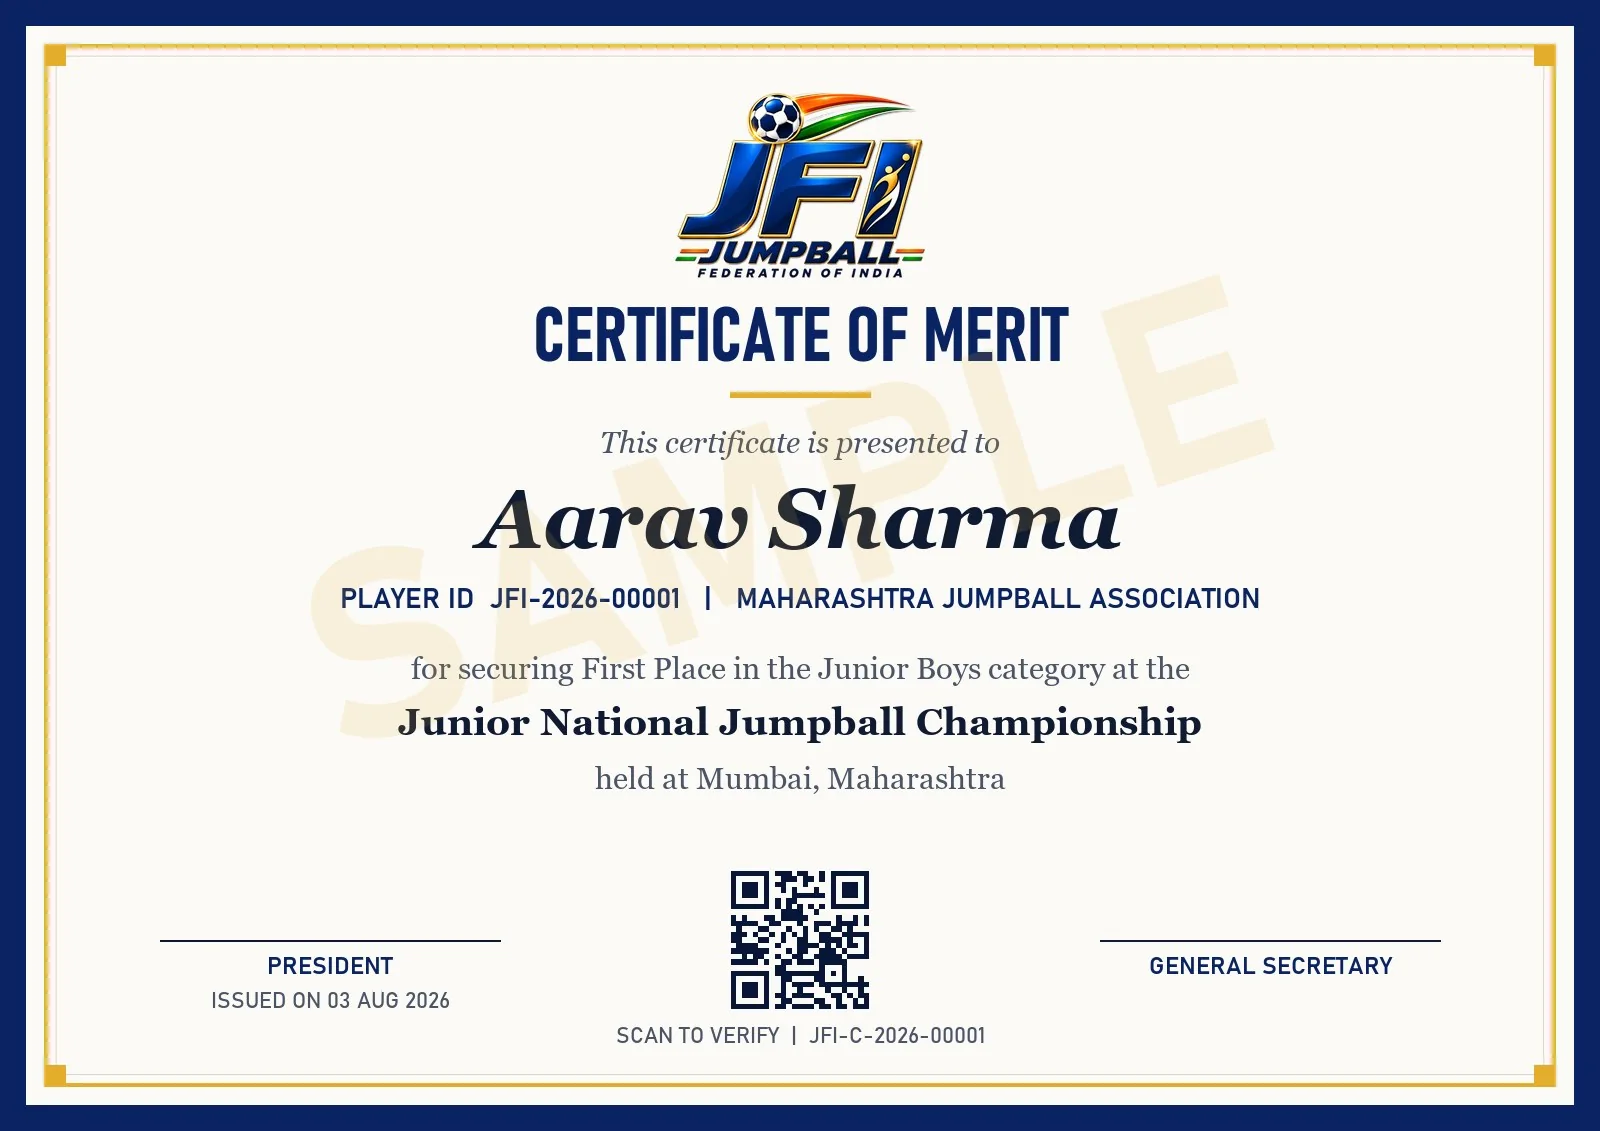
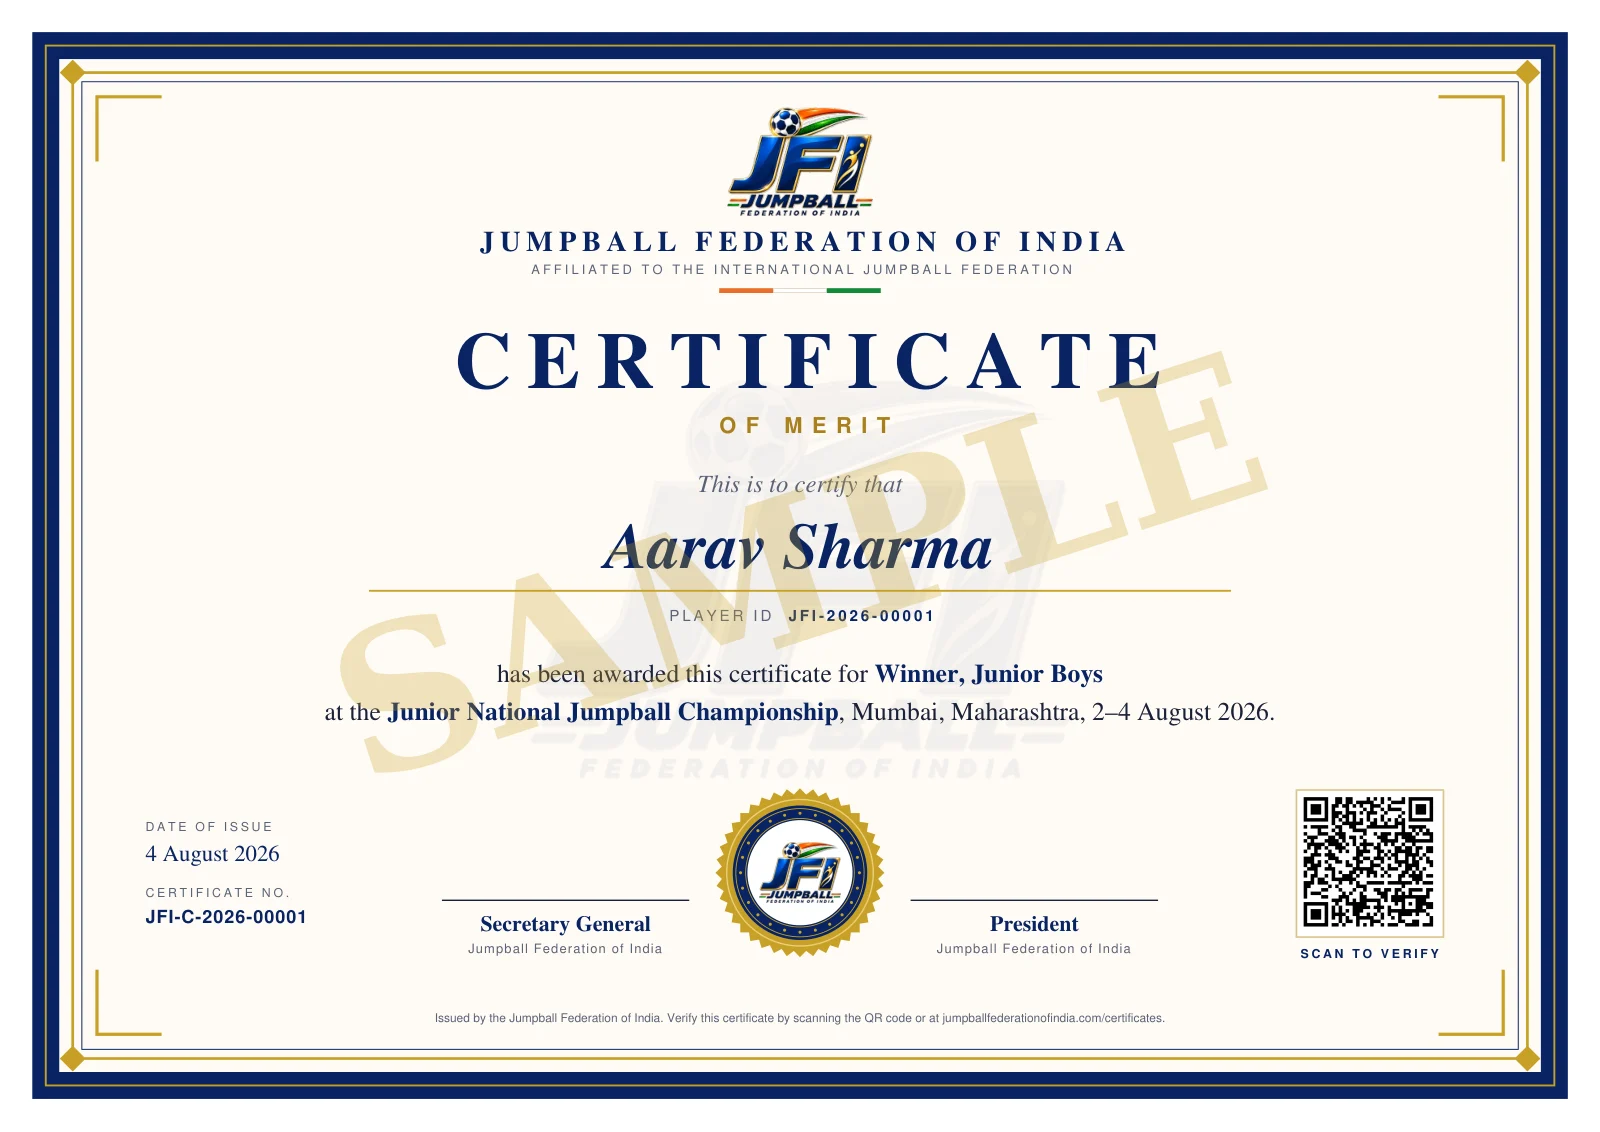
Improve the Find Certificates page
- Lookup redirects land on the results (#lookup-results) or, for a
  not-found or validation error, on the form (#find-certificate)
- Result cards: award icon, certificate count, "Search again", and a
  Verify link next to Download PDF so players can share proof
- Submit button shows "Searching..." and is disabled while the search
  runs (data-busy-label helper in jfi-forms.js, reset on Back)
- Sample image re-rendered from the real certificate template and
  stamped SAMPLE; Certificate::renderPdf() split from generatePdf()
- Equal-width result buttons and an unbroken certificate count on phones

diff --git a/public/assets/js/jfi-forms.js b/public/assets/js/jfi-forms.js
@@ -11,3 +11,30 @@ document.querySelectorAll('[data-password-toggle]').forEach((button) => {
         button.querySelector('i').className = isHidden ? 'fa-regular fa-eye-slash' : 'fa-regular fa-eye';
     });
 });
+
+/**
+ * Busy state for forms: <button type="submit" data-busy-label="Searching...">.
+ * Stops double submits and tells the visitor the request is on its way.
+ */
+document.querySelectorAll('form').forEach((form) => {
+    const button = form.querySelector('[type="submit"][data-busy-label]');
+
+    if (!button) {
+        return;
+    }
+
+    const label = button.innerHTML;
+
+    form.addEventListener('submit', () => {
+        button.disabled = true;
+        button.setAttribute('aria-busy', 'true');
+        button.textContent = button.dataset.busyLabel;
+    });
+
+    // Pages restored with the Back button keep their old state; reset it.
+    window.addEventListener('pageshow', () => {
+        button.disabled = false;
+        button.removeAttribute('aria-busy');
+        button.innerHTML = label;
+    });
+});

diff --git a/public/assets/css/jfi-components.css b/public/assets/css/jfi-components.css
@@ -1500,7 +1500,29 @@ input[type="file"].form-control-jfi::file-selector-button{
 }
 
 .lookup-results-head{
+    display: flex;
+    flex-wrap: wrap;
+    align-items: flex-end;
+    justify-content: space-between;
+    gap: 12px 24px;
     margin-bottom: 20px;
+}
+
+/* Lookup redirects to these anchors; keep a little space above them */
+#lookup-results,
+#find-certificate{
+    scroll-margin-top: 24px;
+}
+
+.certificate-item .file-icon{
+    background-color: var(--jfi-navy);
+    color: var(--jfi-gold);
+    font-size: 20px;
+}
+
+.jfi-btn[aria-busy="true"]{
+    opacity: .75;
+    cursor: progress;
 }
 
 .download-list{
@@ -2395,6 +2417,11 @@ input[type="file"].form-control-jfi::file-selector-button{
 
     .download-actions{
         grid-column: 1 / -1;
+    }
+
+    .download-actions .jfi-btn{
+        flex: 1 1 auto;
+        justify-content: center;
     }
 
     .featured-download{

diff --git a/resources/views/frontend/certificates/index.blade.php b/resources/views/frontend/certificates/index.blade.php
@@ -9,16 +9,23 @@
 <section class="page-section">
 <div class="hero-container">
 @if ($lookupPlayer)
-<section aria-labelledby="lookup-results-title" class="lookup-results mb-5">
+<section aria-labelledby="lookup-results-title" class="lookup-results mb-5" id="lookup-results">
 <div class="lookup-results-head">
+<div>
 <h2 class="title-plain fs-3 mb-1" id="lookup-results-title">Certificates for {{ $lookupPlayer->name }}</h2>
-<p class="mb-0">Player ID <span class="player-id">{{ $lookupPlayer->registration_no }}</span></p>
+<p class="mb-0">Player ID <span class="player-id">{{ $lookupPlayer->registration_no }}</span>
+@if ($lookupPlayer->certificates->isNotEmpty())
+&middot; <span class="text-nowrap">{{ $lookupPlayer->certificates->count() }} {{ Str::plural('certificate', $lookupPlayer->certificates->count()) }}</span>
+@endif
+</p>
+</div>
+<a class="jfi-link" href="#find-certificate">Search again <i aria-hidden="true" class="fa-solid fa-arrow-down"></i></a>
 </div>
 @if ($lookupPlayer->certificates->isNotEmpty())
 <ul class="download-list">
 @foreach ($lookupPlayer->certificates as $certificate)
-<li class="download-item">
-<span aria-hidden="true" class="file-icon">PDF</span>
+<li class="download-item certificate-item">
+<span aria-hidden="true" class="file-icon"><i class="fa-solid fa-award"></i></span>
 <div>
 <h3 class="download-title">{{ $certificate->title }}</h3>
 @if ($certificate->achievement || $certificate->event)
@@ -29,11 +36,14 @@
 <span>Issued <time datetime="{{ $certificate->issued_on->toDateString() }}">{{ $certificate->issued_on->format('j M Y') }}</time></span>
 </div>
 </div>
+<div class="download-actions">
+<a class="jfi-btn jfi-btn-outline" href="{{ route('frontend.certificates.verify', $certificate->verification_code) }}" rel="noopener" target="_blank"><i aria-hidden="true" class="fa-solid fa-shield-halved"></i> Verify<span class="visually-hidden"> {{ $certificate->title }} (opens in a new tab)</span></a>
 <a class="jfi-btn jfi-btn-primary" href="{{ $downloadLinks[$certificate->id] }}"><i aria-hidden="true" class="fa-solid fa-download"></i> Download PDF<span class="visually-hidden"> {{ $certificate->title }}</span></a>
+</div>
 </li>
 @endforeach
 </ul>
-<p class="form-help mt-3 mb-0">For your security these download links work for 30 minutes. Search again to get new links.</p>
+<p class="form-help mt-3 mb-0"><i aria-hidden="true" class="fa-solid fa-lock"></i> For your security, download links work for 30 minutes. The Verify page can be shared with anyone who needs to check the certificate.</p>
 @else
 <x-empty-state icon="fa-regular fa-file-lines" title="No certificates yet">
 No certificates have been issued to this Player ID yet. They appear here once the federation issues them.
@@ -43,7 +53,7 @@ No certificates have been issued to this Player ID yet. They appear here once th
 @endif
 <div class="row gx-4 gy-5">
 <div class="col-lg-6">
-<div class="auth-card h-100">
+<div class="auth-card h-100" id="find-certificate">
 <h2 class="title-plain fs-3 mb-2">Find My Certificate</h2>
 <p class="mb-4">Enter your Player ID and date of birth. Both must match our records.</p>
 @if (session('lookup_failed'))
@@ -67,14 +77,14 @@ No certificates have been issued to this Player ID yet. They appear here once th
 <input @error('date_of_birth') aria-describedby="lookup-dob-error" aria-invalid="true" @enderror autocomplete="bday" @class(['form-control-jfi', 'is-invalid' => $errors->has('date_of_birth')]) id="lookup-dob" max="{{ today()->toDateString() }}" name="date_of_birth" required type="date"/>
 <x-form-error field="date_of_birth" id="lookup-dob"/>
 </div>
-<button class="jfi-btn jfi-btn-primary jfi-btn-block" type="submit"><i aria-hidden="true" class="fa-solid fa-magnifying-glass"></i> Find Certificates</button>
+<button class="jfi-btn jfi-btn-primary jfi-btn-block" data-busy-label="Searching..." type="submit"><i aria-hidden="true" class="fa-solid fa-magnifying-glass"></i> Find Certificates</button>
 </form>
 <p class="form-help mt-4 mb-0">Registered players can also download certificates after <a href="{{ route('frontend.players.login') }}">signing in</a>.</p>
 </div>
 </div>
 <div class="col-lg-6">
 <figure class="certificate-preview m-0">
-<img alt="Sample JFI certificate showing the player's name, Player ID, achievement, signatures and a QR code" height="1131" loading="lazy" src="{{ asset('assets/images/jfi/certificate-sample.webp') }}" width="1600"/>
+<img alt="Sample JFI certificate showing the player's name, Player ID, achievement, signatures and a QR code" height="1132" loading="lazy" src="{{ asset('assets/images/jfi/certificate-sample.webp') }}" width="1600"/>
 </figure>
 <p class="form-help mt-3">Sample certificate. Every certificate carries a certificate number and a QR code.</p>
 </div>
@@ -105,3 +115,7 @@ No certificates have been issued to this Player ID yet. They appear here once th
 </section>
 </div>
 @endsection
+
+@push('scripts')
+<script src="@versionedAsset('assets/js/jfi-forms.js')"></script>
+@endpush

diff --git a/tests/Feature/CertificatesTest.php b/tests/Feature/CertificatesTest.php
@@ -109,7 +109,7 @@ class CertificatesTest extends TestCase
         $certificate = $this->issue($player);
 
         $this->post(route('frontend.certificates.lookup'), ['player_id' => strtolower($player->registration_no), 'date_of_birth' => '2008-01-15'])
-            ->assertRedirect(route('frontend.certificates.index'));
+            ->assertRedirect(route('frontend.certificates.index').'#lookup-results');
 
         $this->followingRedirects()
             ->post(route('frontend.certificates.lookup'), ['player_id' => $player->registration_no, 'date_of_birth' => '2008-01-15'])
@@ -117,7 +117,8 @@ class CertificatesTest extends TestCase
             ->assertSee('Certificates for Aarav Sharma')
             ->assertSee($certificate->certificate_no)
             ->assertSee('/certificates/'.$certificate->id.'/download?expires=', false)
-            ->assertSee('signature=', false);
+            ->assertSee('signature=', false)
+            ->assertSee(route('frontend.certificates.verify', $certificate->verification_code), false);
     }
 
     public function test_lookup_gives_one_generic_message_for_any_wrong_combination(): void
@@ -132,6 +133,9 @@ class CertificatesTest extends TestCase
             ['player_id' => $pending->registration_no, 'date_of_birth' => '2008-01-15'],
         ];
 
+        $this->post(route('frontend.certificates.lookup'), $attempts[0])
+            ->assertRedirect(route('frontend.certificates.index').'#find-certificate');
+
         foreach ($attempts as $attempt) {
             $this->followingRedirects()
                 ->post(route('frontend.certificates.lookup'), $attempt)
@@ -144,6 +148,7 @@ class CertificatesTest extends TestCase
     public function test_lookup_requires_both_fields(): void
     {
         $this->post(route('frontend.certificates.lookup'), [])
+            ->assertRedirect(route('frontend.certificates.index').'#find-certificate')
             ->assertSessionHasErrors([
                 'player_id' => 'Enter your Player ID.',
                 'date_of_birth' => 'Enter your date of birth.',

diff --git a/app/Models/Certificate.php b/app/Models/Certificate.php
@@ -82,7 +82,18 @@ class Certificate extends Model
 
         $path = 'certificates/'.$this->certificate_no.'.pdf';
 
-        $pdf = Pdf::loadView('certificates.certificate', [
+        Storage::disk('local')->put($path, $this->renderPdf());
+
+        $this->forceFill(['pdf_path' => $path])->saveQuietly();
+    }
+
+    /**
+     * The certificate as PDF bytes, drawn from the player and event relations
+     * already on the model (generatePdf() loads them first).
+     */
+    public function renderPdf(): string
+    {
+        return Pdf::loadView('certificates.certificate', [
             'certificate' => $this,
             'images' => [
                 'frame' => self::artwork('certificate-frame.svg'),
@@ -95,11 +106,8 @@ class Certificate extends Model
         ])
             ->setPaper('a4', 'landscape')
             // Embed only the glyphs used, not the whole font (about 1 MB otherwise).
-            ->setOption('isFontSubsettingEnabled', true);
-
-        Storage::disk('local')->put($path, $pdf->output());
-
-        $this->forceFill(['pdf_path' => $path])->saveQuietly();
+            ->setOption('isFontSubsettingEnabled', true)
+            ->output();
     }
 
     /**

diff --git a/app/Http/Controllers/Frontend/CertificateController.php b/app/Http/Controllers/Frontend/CertificateController.php
@@ -56,13 +56,13 @@ class CertificateController extends Controller
 
         if (! $player) {
             return redirect()
-                ->route('frontend.certificates.index')
+                ->to(route('frontend.certificates.index').'#find-certificate')
                 ->withInput($request->only('player_id'))
                 ->with('lookup_failed', true);
         }
 
         return redirect()
-            ->route('frontend.certificates.index')
+            ->to(route('frontend.certificates.index').'#lookup-results')
             ->withInput($request->only('player_id'))
             ->with('lookup_player', $player->id);
     }

diff --git a/app/Http/Requests/Frontend/LookupCertificatesRequest.php b/app/Http/Requests/Frontend/LookupCertificatesRequest.php
@@ -17,6 +17,14 @@ class LookupCertificatesRequest extends FormRequest
     }
 
     /**
+     * Land on the form, not the top of the page, so the errors are in view.
+     */
+    protected function getRedirectUrl(): string
+    {
+        return route('frontend.certificates.index').'#find-certificate';
+    }
+
+    /**
      * @return array<string, ValidationRule|array<mixed>|string>
      */
     public function rules(): array

diff --git a/docs/CLAUDE.md b/docs/CLAUDE.md
@@ -228,7 +228,7 @@ Tick when received. We enter only 1–2 sample items per section; the client ent
 - Player ID, certificate number and verification code formats: see section 14.
 - **Frontend:** every public page in section 4 (except the admin area) is a Blade view in `resources/views/frontend/` with layout `layouts/frontend.blade.php`; navigation lives in `config('jumpball.navigation')`. Content pages are served by controllers in `app/Http/Controllers/Frontend` (Phase 2A): every query uses `published()` (players: approved only; associations: `approved()`), relations are eager-loaded (`Model::preventLazyLoading()` is on outside production), long lists paginate with `partials/pagination.blade.php`, and unknown or unpublished slugs return 404. The five content pages use `PageController` with the slug passed as a route default. Contact details, social links, footer text and the default meta description come from settings through the view composer in `AppServiceProvider` (`$site`, `$contact`, `$social`). The home hero shows published banners whole, beside the headline (banners are designed artwork with their own lettering), and the JFI logo plate until one is published. Site CSS/JS links use the `@versionedAsset()` Blade directive (file modification time as `?v=`) because the live server caches `public/assets` for a week.
 - **Preview data:** none left; `_preview-data.php` was deleted in Phase 3 when the verify page was wired. The player login form posts to `#` until Phase 4.
-- **Certificates (Phase 3):** `Certificate::generatePdf()` renders `resources/views/certificates/certificate.blade.php` (A4 landscape, absolute positioning in mm; artwork in `public/assets/images/jfi/certificate-*`: frame and emblem SVGs whose width/height must equal their viewBox because dompdf ignores viewBox scaling, logo and faint watermark PNGs; Times + Helvetica core fonts, with the embedded DejaVu Serif only for a block whose text is outside Windows-1252; long titles, names and citations get smaller type so the page never overflows; QR as an SVG data URI linking to `frontend.certificates.verify`) to `certificates/{certificate_no}.pdf` on the private disk. It runs after create, when a printed attribute changes, on the admin's Regenerate action, and on download if the file is missing. PDFs are served only by `CertificatePdfController`: the admin panel route `filament.admin.certificates.download`, or `frontend.certificates.download` with the `signed` middleware (30-minute links from the lookup). The lookup (`CertificateController`, `LookupCertificatesRequest`, `throttle:certificate-lookup` = 10/min/IP) posts to `/certificates`, matches Player ID + date of birth for approved players only, and flashes the player id; every wrong combination gets the same message. Unknown verify codes return 404 with "Not a valid certificate"; verify pages are `noindex`. Admin: Certificates resource (Registrations group, no bulk actions) and "Issue certificate" on an approved player's page; deleting a certificate or player deletes the PDFs. The title is limited to 40 characters and the achievement to 80 so they fit the template.
+- **Certificates (Phase 3):** `Certificate::generatePdf()` renders `resources/views/certificates/certificate.blade.php` (A4 landscape, absolute positioning in mm; artwork in `public/assets/images/jfi/certificate-*`: frame and emblem SVGs whose width/height must equal their viewBox because dompdf ignores viewBox scaling, logo and faint watermark PNGs; Times + Helvetica core fonts, with the embedded DejaVu Serif only for a block whose text is outside Windows-1252; long titles, names and citations get smaller type so the page never overflows; QR as an SVG data URI linking to `frontend.certificates.verify`) to `certificates/{certificate_no}.pdf` on the private disk. It runs after create, when a printed attribute changes, on the admin's Regenerate action, and on download if the file is missing. PDFs are served only by `CertificatePdfController`: the admin panel route `filament.admin.certificates.download`, or `frontend.certificates.download` with the `signed` middleware (30-minute links from the lookup). The lookup (`CertificateController`, `LookupCertificatesRequest`, `throttle:certificate-lookup` = 10/min/IP) posts to `/certificates`, matches Player ID + date of birth for approved players only, and flashes the player id; every wrong combination gets the same message. Redirects land on `#lookup-results` or `#find-certificate` (validation errors too, via `LookupCertificatesRequest::getRedirectUrl()`); each result has Download PDF and Verify; the submit button uses the `data-busy-label` helper in `jfi-forms.js`. The page's sample image (`certificate-sample.webp`) is rendered from the real template with `Certificate::renderPdf()` on unsaved models and stamped SAMPLE; re-render it if the template changes. Unknown verify codes return 404 with "Not a valid certificate"; verify pages are `noindex`. Admin: Certificates resource (Registrations group, no bulk actions) and "Issue certificate" on an approved player's page; deleting a certificate or player deletes the PDFs. The title is limited to 40 characters and the achievement to 80 so they fit the template.
 - **Public forms (Phase 2B):** Contact (`ContactController`), State Association Registration (`StateAssociationController@create/store`) and Player Registration (`PlayerController@create/store`) post to the same URLs as their pages, validated by FormRequests in `app/Http/Requests/Frontend`. Each form has `@csrf`, the `<x-honeypot/>` field (`website`, rule `prohibited`), the `throttle:public-forms` limiter (5 per minute per IP, `AppServiceProvider`), `<x-form-alert/>` and `<x-form-error/>` for messages, and old input. Uploads: pdf/jpg/png, max 2 MB, stored under generated names with `RegistrationDocument::storeUploads()` (documents on the private disk; player photos private, association logos public); stored files are deleted again if the insert fails. Registrations save as pending in a transaction, then `RegistrationReceived` is sent synchronously (a mail failure is reported, never shown). Success states are flashed to the same page (`registered_player` shows the Player ID, `registered_association`). Players must choose an approved association; while none exists the page shows a message instead of the form.
 - **Styles:** brand overrides in `public/assets/css/jfi-theme.css`, page components in `public/assets/css/jfi-components.css`. Do not edit the template's `main.css`.
 - **Images:** generated brand graphics in `public/assets/images/jfi/` (cover-1..6 are the fallback covers when no image is uploaded; certificate sample is watermarked SAMPLE). A few photos and icons from the original template in `public/assets/images/` are placeholders on the home page, in preview data and in inner page banners (`config('jumpball.page_banners')`, route pattern => photo); replace them with client photos (section 11). Unused template images were removed; a local copy is in `storage/app/backups/` (git-ignored).
